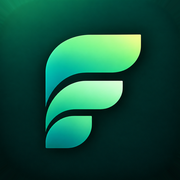
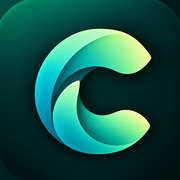
Add files via upload

diff --git a/index.html b/index.html
@@ -3,16 +3,16 @@
 <head>
 <meta charset="utf-8">
 <meta name="viewport" content="width=device-width, initial-scale=1, viewport-fit=cover, maximum-scale=1">
-<title>Folio</title>
+<title>Centric</title>
 <meta name="apple-mobile-web-app-capable" content="yes">
 <meta name="apple-mobile-web-app-status-bar-style" content="default">
-<meta name="apple-mobile-web-app-title" content="Folio">
+<meta name="apple-mobile-web-app-title" content="Centric">
 <meta name="theme-color" content="#f5f5f7">
 <meta name="color-scheme" content="light">
 <meta http-equiv="Cache-Control" content="no-cache, no-store, must-revalidate">
 <meta http-equiv="Pragma" content="no-cache">
 <link rel="manifest" href="manifest.json">
-<link rel="apple-touch-icon" href="apple-touch-icon.png?v=folio">
+<link rel="apple-touch-icon" href="apple-touch-icon.png?v=centric">
 <style>
 /* ==========================================================================
    THEME — every colour, font and radius the app uses. Edit here to restyle.
@@ -574,7 +574,7 @@ body.paged{overflow:hidden}
 <div id="app" hidden>
   <header class="nav">
     <div>
-      <h1 id="title">Folio</h1>
+      <h1 id="title">Centric</h1>
       <div class="sub"><span class="dot" id="dot"></span><span id="statusTxt">Loading…</span></div>
     </div>
     <div class="navbtns">
@@ -707,8 +707,8 @@ body.paged{overflow:hidden}
 
 <!-- =================== LOCK =================== -->
 <div class="lock" id="lock" hidden>
-  <img src="apple-touch-icon.png?v=folio" alt="">
-  <h2>Folio is locked</h2>
+  <img src="apple-touch-icon.png?v=centric" alt="">
+  <h2>Centric is locked</h2>
   <p id="lockMsg"></p>
   <button class="btn" id="btnUnlock">Tap to unlock</button>
   <button class="alt" id="btnLockPass" hidden>Use passcode instead</button>
@@ -720,7 +720,7 @@ body.paged{overflow:hidden}
 /* ==========================================================================
    CONFIG
    ========================================================================== */
-const BUILD = '2026-10-06k';        // shown in the app, so we can tell which copy is live
+const BUILD = '2026-10-06l';        // shown in the app, so we can tell which copy is live
 const REFRESH_MS = 2 * 60 * 1000;   // auto refresh every 2 minutes
 const STALE_MS   = 60 * 1000;       // refresh on reopen if older than this
 const LS = { cfg:'inv.cfg', data:'inv.data', blur:'inv.blur', range:'inv.range' };
@@ -1831,7 +1831,7 @@ $('#btnDelete').onclick = async ()=>{
 /* ==========================================================================
    NAV
    ========================================================================== */
-const TITLES={home:'Folio',break:'Holdings',trend:'Trends',txn:'Activity'};
+const TITLES={home:'Centric',break:'Holdings',trend:'Trends',txn:'Activity'};
 
 /* ---------- the navigation lens ---------- */
 // Positioned rather than toggled, so moving between tabs animates as one
@@ -2543,8 +2543,8 @@ async function enrollLock(){
   }catch(e){}
   try{
     const cred = await navigator.credentials.create({ publicKey:{
-      rp:{ name:'Folio' },
-      user:{ id: rand(16), name:'folio', displayName:'Folio' },
+      rp:{ name:'Centric' },
+      user:{ id: rand(16), name:'centric', displayName:'Centric' },
       challenge: rand(32),
       pubKeyCredParams:[{type:'public-key',alg:-7},{type:'public-key',alg:-257}],
       authenticatorSelection:{ authenticatorAttachment:'platform', userVerification:'required', residentKey:'preferred' },
@@ -2592,7 +2592,7 @@ $('#btnLockPass').onclick = ()=>{
     const act = a.dataset.act; close();
     if (act==='eye'){ document.body.classList.toggle('blur'); save(LS.blur, document.body.classList.contains('blur')); }
     else if (act==='lock') lockNow(false);
-    else if (act==='lockon'){ if (confirm('Turn on Face ID lock?\n\nFolio will ask for Face ID when it opens and after a minute in the background.')) enrollLock(); }
+    else if (act==='lockon'){ if (confirm('Turn on Face ID lock?\n\nCentric will ask for Face ID when it opens and after a minute in the background.')) enrollLock(); }
     else if (act==='lockoff'){
       try{ await verifyFace(); }catch(err){ toast('Face ID is needed to turn the lock off'); return; }
       if (confirm('Turn off Face ID lock?')){ lockCfg = null; localStorage.removeItem('inv.lock'); paintMenu(); toast('Face ID lock is off'); }
